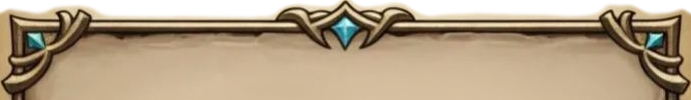
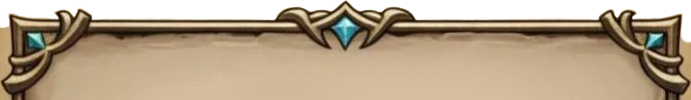
Wheel of victory bg fix

Changed region(s): [[0.0, 0.0, 1.0, 0.45]]

diff --git a/src/routes/wheel_of_victory/card_painter.ts b/src/routes/wheel_of_victory/card_painter.ts
@@ -14,6 +14,13 @@ export function updateCanvas(
 
 	addImage(context, "frame", 0, 0);
 
+	if (background instanceof HTMLImageElement) {
+		const descHeight = description.split(/\r\n|\r|\n/).length
+		const shift = descHeight > 4 ? (descHeight - 4) * 67 : 0;
+		context.drawImage(background, 50, 120, 708, 710 - shift);
+		addImage(context, "frame_top", 0, 0);
+	}
+
   addDescription(context, description, 89)
 
 	addTitle(context, name, 404, 95, 420);
@@ -29,12 +36,6 @@ export function updateCanvas(
 	}
 	if (death > 0) {
 		addSquishedOutlinedText(context, death.toString(), 733, 1183, 100, 10, 0.92);
-	}
-
-	if (background instanceof HTMLImageElement) {
-		const descHeight = description.split(/\r\n|\r|\n/).length
-		const shift = descHeight > 4 ? (descHeight - 4) * 67 : 0;
-		context.drawImage(background, 50, 120, 708, 700 - shift);
 	}
 }
 
@@ -89,6 +90,8 @@ function addDescription(context: CanvasRenderingContext2D, text: string, x: numb
 			}
 		}
 		addImage(context, "description_frame_top", 62, 809 - 67 * (paragraphs.length - 4))
+	} else {
+		addImage(context, "description_frame_top", 62, 809)
 	}
 
   const tempCanvas = document.createElement("canvas")
@@ -308,6 +311,7 @@ type Line = { tokens: Token[] };
 
 const imageNames = [
 	"frame",
+	"frame_top",
 	"life",
 	"fire",
 	"water",
